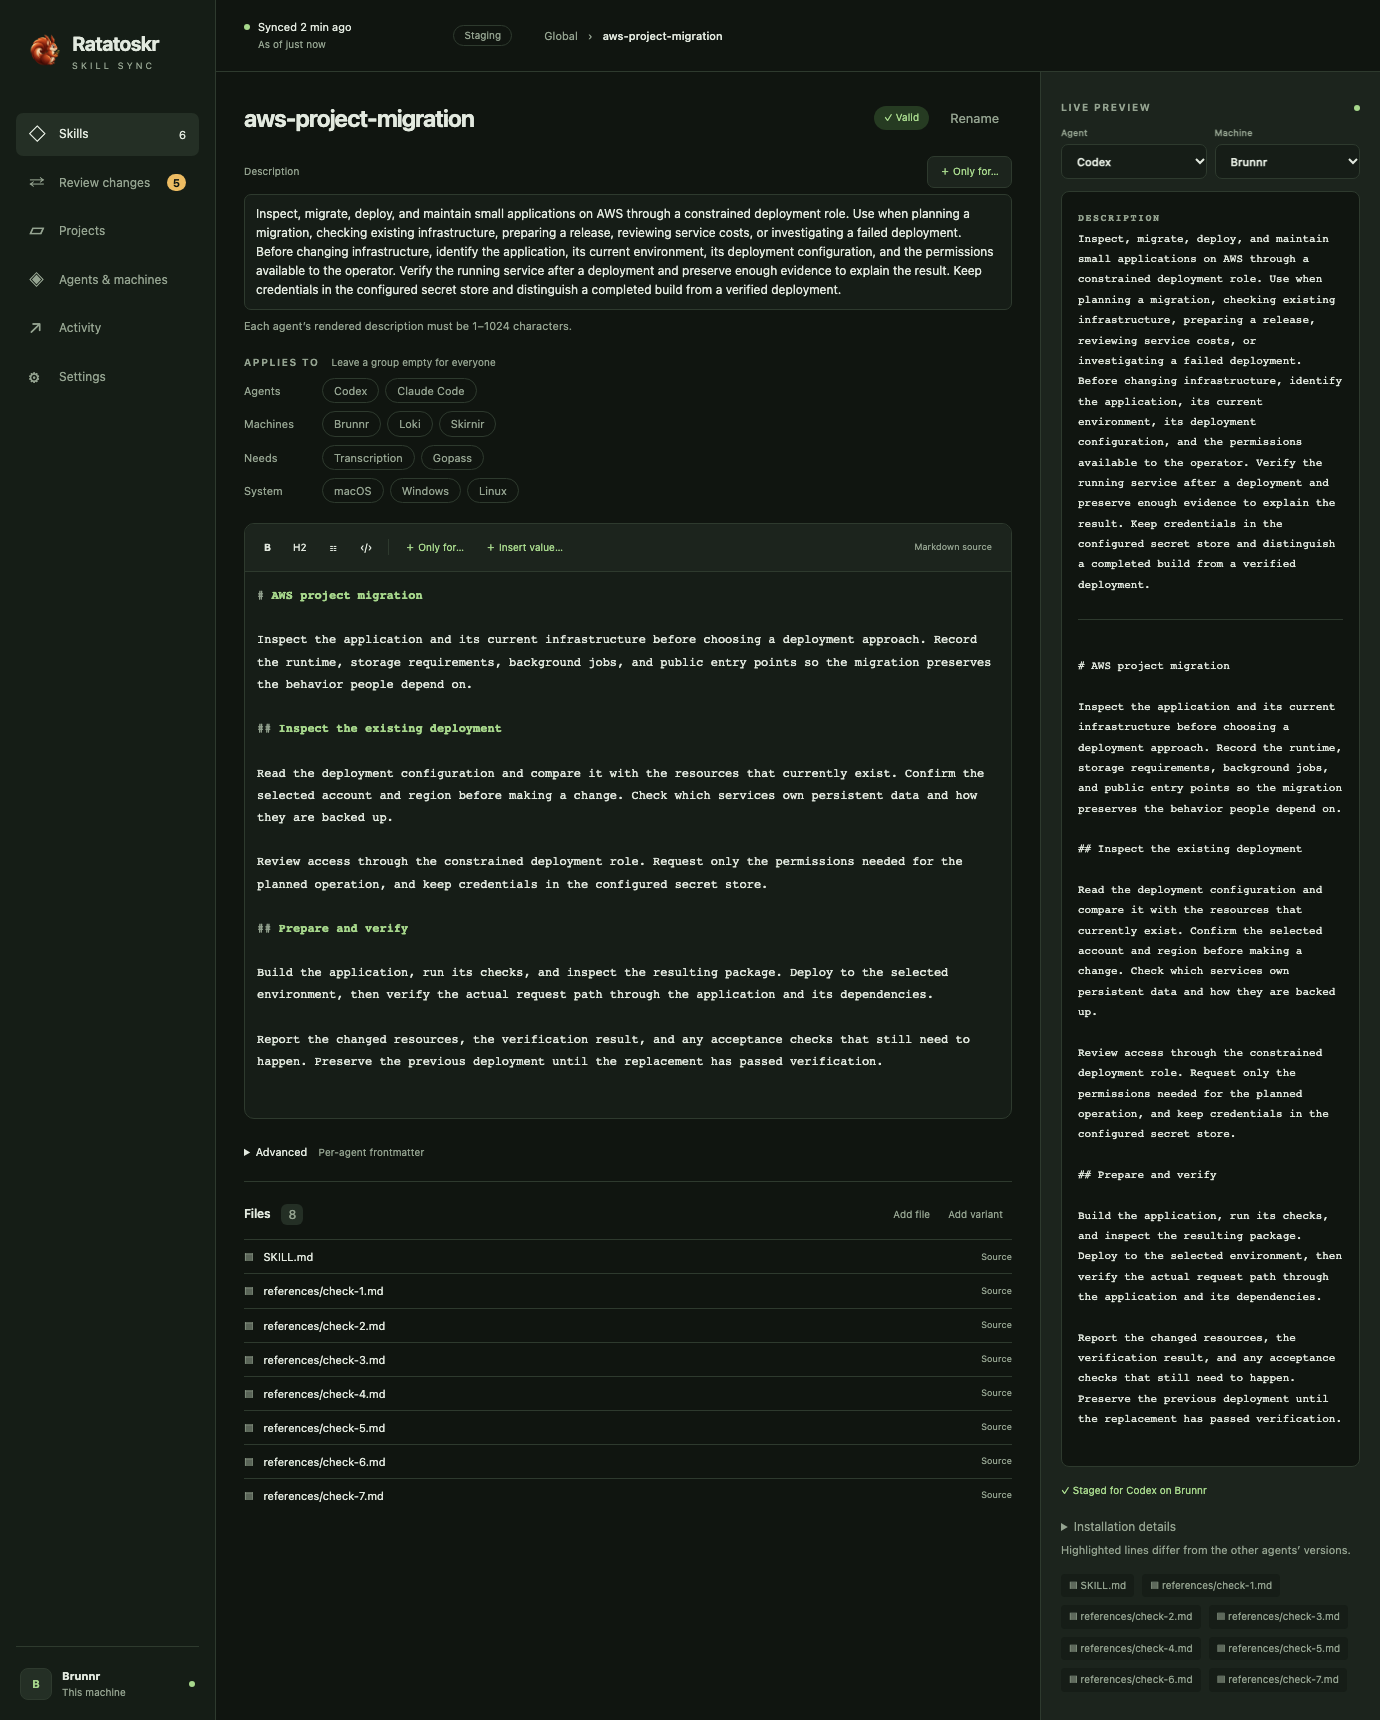
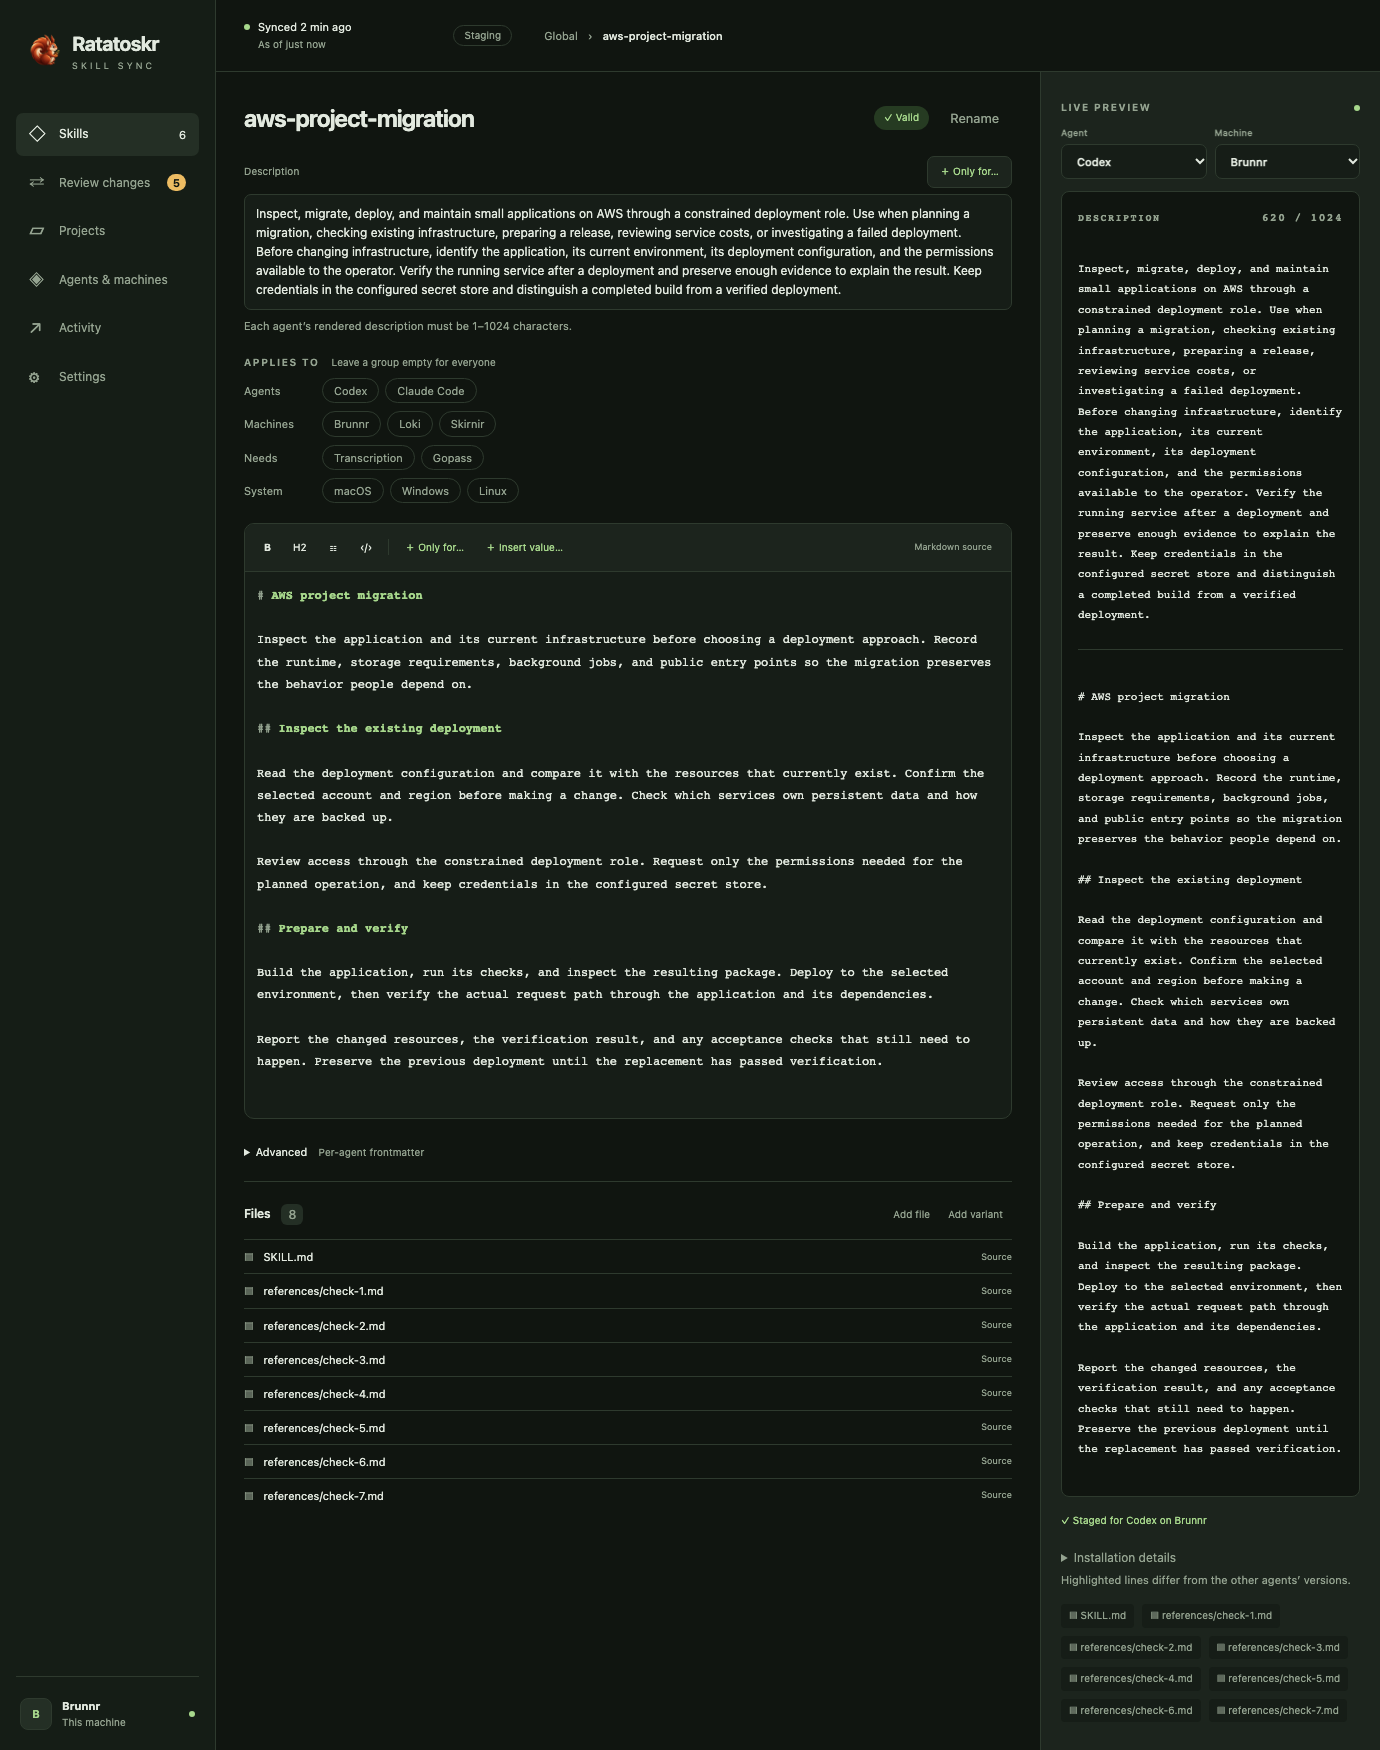
[Codex][Sol 6.1] Preserve description spacing and guard structural edits

diff --git a/desktop/e2e/screenshots.spec.ts b/desktop/e2e/screenshots.spec.ts
@@ -317,7 +317,7 @@ test("all main screens", async ({ page }) => {
 
 test("description conditions preview, save and reopen per agent", async ({
   page,
-}) => {
+}, testInfo) => {
   let saved = structuredClone(fixture.document);
   await installFixture(page, (cmd, args) => {
     if (cmd === "read_source_skill") return saved;
@@ -328,6 +328,17 @@ test("description conditions preview, save and reopen per agent", async ({
         metadata: String(args.metadata),
       };
       return fixture.workspace;
+    }
+    const edit = args.edit as
+      { kind?: string; edit?: { kind?: string } } | undefined;
+    if (
+      cmd === "edit_skill_draft" &&
+      edit?.kind === "description-section" &&
+      edit.edit?.kind === "remove-only"
+    ) {
+      return new Promise((resolve) =>
+        setTimeout(() => resolve(fixtureIPC(cmd, args)), 300),
+      );
     }
     return fixtureIPC(cmd, args);
   });
@@ -359,7 +370,7 @@ test("description conditions preview, save and reopen per agent", async ({
   await page.getByLabel("Preview agent").selectOption("codex");
   await expect(page.getByLabel("Rendered description")).toContainText(sentence);
   await page.screenshot({
-    path: "/private/tmp/ratatoskr-description-conditions.png",
+    path: testInfo.outputPath("description-conditions.png"),
     fullPage: true,
   });
   await page.getByRole("button", { name: "Save", exact: true }).click();
@@ -397,6 +408,7 @@ test("description conditions preview, save and reopen per agent", async ({
   await page
     .getByRole("button", { name: "Remove condition", exact: true })
     .click();
+  await expect(conditional).toHaveAttribute("readonly");
   await expect(page.getByLabel("Description", { exact: true })).toHaveValue(
     /Updated Luna guidance/,
   );

diff --git a/desktop/src/views/SkillEditor.svelte b/desktop/src/views/SkillEditor.svelte
@@ -79,6 +79,7 @@
   let descriptionIndex = $state<number | null>(null);
   let descriptionText = $state("");
   let activeDescriptionIndex = $state<number | null>(null);
+  let pendingDescriptionStructure = $state(0);
   function growDescription(node: HTMLTextAreaElement, _value: string) {
     let active = true;
     let width = 0;
@@ -321,7 +322,13 @@
     picker = "only";
   }
   function descriptionEdit(operation: Record<string, unknown>) {
-    return edit({ kind: "description-section", edit: operation });
+    const structural = operation.kind !== "text";
+    if (structural) pendingDescriptionStructure++;
+    return edit({ kind: "description-section", edit: operation }).finally(
+      () => {
+        if (structural) pendingDescriptionStructure--;
+      },
+    );
   }
   function openDescriptionOnly(index: number | null = null) {
     descriptionIndex = index;
@@ -487,6 +494,7 @@
                     ? "Description"
                     : `Shared description ${index + 1}`}
                 rows="2"
+                readonly={pendingDescriptionStructure > 0}
                 use:growDescription={section.text}
                 bind:value={section.text}
                 onfocus={() => (activeDescriptionIndex = index)}
@@ -694,7 +702,11 @@
             class="preview-description"
             aria-label="Rendered description"
           >
-            <span class="eyebrow">DESCRIPTION</span>
+            <span class="eyebrow"
+              >DESCRIPTION <small
+                >{[...renderedDescription].length} / 1024</small
+              ></span
+            >
             <p>{renderedDescription}</p>
           </div>
           {#each (preview.find((f) => f.path === "SKILL.md")?.body ?? "").split("\n") as line, index}<div

diff --git a/desktop/src/style.css b/desktop/src/style.css
@@ -830,6 +830,10 @@ nav button.active {
   margin-bottom: 16px;
   padding-bottom: 12px;
 }
+.preview-description .eyebrow {
+  display: flex;
+  justify-content: space-between;
+}
 .description-field textarea {
   max-height: 16rem;
   overflow-y: auto;

diff --git a/crates/ratatoskr-core/src/editor.rs b/crates/ratatoskr-core/src/editor.rs
@@ -49,7 +49,7 @@ fn description_sections(description: &str) -> Result<Vec<DescriptionSection>> {
             range,
         });
         sections.push(DescriptionSection {
-            text: description[block.body.clone()].into(),
+            text: description[block.body.clone()].trim_start().into(),
             selectors: Some(block.selectors),
             range: block.opening.start..block.closing.end,
             body: block.body,
@@ -93,7 +93,7 @@ fn edit_description(description: &str, edit: DescriptionEdit) -> Result<String> 
         DescriptionEdit::Append { value, selectors } => {
             ensure!(!value.trim().is_empty(), "Enter description text");
             result.push_str(&format!(
-                " {}{value}<!-- /only -->",
+                "{} {value}<!-- /only -->",
                 only_opening(&selectors)?
             ));
         }
@@ -101,7 +101,14 @@ fn edit_description(description: &str, edit: DescriptionEdit) -> Result<String> 
             let section = sections
                 .get(index)
                 .context("Description section changed; try again")?;
-            result.replace_range(section.body.clone(), &value);
+            // Conditional leading whitespace separates sentences and belongs inside
+            // the condition. Keep it when the field edits only the visible text.
+            let start = if section.selectors.is_some() {
+                section.body.end - section.text.len()
+            } else {
+                section.body.start
+            };
+            result.replace_range(start..section.body.end, &value);
         }
         DescriptionEdit::Only { index, selectors } => {
             let section = sections
@@ -124,7 +131,8 @@ fn edit_description(description: &str, edit: DescriptionEdit) -> Result<String> 
                 section.selectors.is_some(),
                 "Select a conditional description section"
             );
-            result.replace_range(section.range.clone(), &section.text);
+            let text = description[section.body.clone()].to_owned();
+            result.replace_range(section.range.clone(), &text);
         }
     }
     // Reject pasted nested or unbalanced tags before changing the source.
@@ -956,6 +964,9 @@ mod tests {
                 yaml["description"].as_str().unwrap().contains("Luna"),
                 harness == "codex"
             );
+            if harness == "claude" {
+                assert_eq!(yaml["description"].as_str(), Some("Review 🐿"));
+            }
             assert!(!rendered.contains("<!--"));
         }
         // Typing repeatedly into a section addresses the current section, not stale offsets.
@@ -965,7 +976,7 @@ mod tests {
             DraftEdit::DescriptionSection {
                 edit: DescriptionEdit::Text {
                     index: 0,
-                    value: "Longer shared text: \"quoted\" 🐿 ".into(),
+                    value: "Longer shared text: \"quoted\" 🐿".into(),
                 },
             },
         )?;
